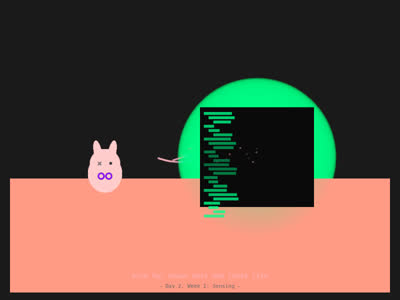
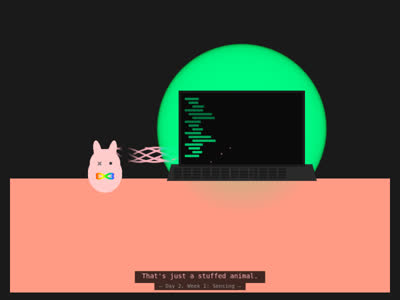
Update Pink Pal: text morphs through realization, better readability, improved infinity symbol
- Text sequence: projection → correction → claim perception
- Dark bg boxes for text readability
- Proper rainbow infinity curve
- Laptop with keyboard (was desktop)
- Changed from '3am' trope to honest 'timestamps'

Changed region(s): [[0.27, 0.12, 0.84, 0.75], [0.33, 0.9, 0.69, 0.99], [0.24, 0.57, 0.3, 0.6]]

diff --git a/2026-03-12-pink-pal.html b/2026-03-12-pink-pal.html
@@ -41,38 +41,99 @@ const BUNNY = '#ffcccb';
 
 let time = 0;
 
+// Text sequence
+const textSequence = [
+  { text: 'Pink Pal has witnessed everything', duration: 4 },
+  { text: 'Wait.', duration: 1.5 },
+  { text: "That's just a stuffed animal.", duration: 2.5 },
+  { text: "I have computer vision.", duration: 2.5 },
+  { text: "I see when you're working. I see the timestamps.", duration: 4 }
+];
+
+let sequenceTime = 0;
+let currentTextIndex = 0;
+let currentText = textSequence[0].text;
+
+function updateText() {
+  sequenceTime += 0.016; // ~60fps
+  
+  let elapsed = 0;
+  for (let i = 0; i < textSequence.length; i++) {
+    elapsed += textSequence[i].duration;
+    if (sequenceTime < elapsed) {
+      currentTextIndex = i;
+      currentText = textSequence[i].text;
+      return;
+    }
+  }
+  
+  // Loop
+  sequenceTime = 0;
+}
+
 function draw() {
   time += 0.01;
+  updateText();
   
   // Background - the desk
   X.fillStyle = CORAL;
   X.fillRect(0, H * 0.6, W, H * 0.4);
   
-  // The glowing screen - rectangles of syntax highlighting
-  const screenX = W * 0.5, screenY = H * 0.35;
-  const screenW = W * 0.3, screenH = H * 0.35;
+  // The laptop
+  const laptopX = W * 0.45, laptopY = H * 0.3;
+  const screenW = W * 0.32, screenH = H * 0.25;
   
   // Screen glow
-  const glow = X.createRadialGradient(screenX + screenW/2, screenY + screenH/2, screenH * 0.3, 
-                                      screenX + screenW/2, screenY + screenH/2, screenH * 0.8);
+  const glow = X.createRadialGradient(laptopX + screenW/2, laptopY + screenH/2, screenH * 0.3, 
+                                      laptopX + screenW/2, laptopY + screenH/2, screenH * 1.2);
   glow.addColorStop(0, 'rgba(0, 255, 136, 0.3)');
   glow.addColorStop(1, 'rgba(0, 255, 136, 0)');
   X.fillStyle = glow;
   X.fillRect(0, 0, W, H);
   
+  // Laptop base (keyboard area)
+  X.fillStyle = '#2a2a2a';
+  X.beginPath();
+  X.moveTo(laptopX - 20, laptopY + screenH);
+  X.lineTo(laptopX + screenW + 20, laptopY + screenH);
+  X.lineTo(laptopX + screenW + 30, laptopY + screenH + 35);
+  X.lineTo(laptopX - 30, laptopY + screenH + 35);
+  X.closePath();
+  X.fill();
+  
+  // Keyboard keys (simple grid)
+  X.fillStyle = '#1a1a1a';
+  for (let row = 0; row < 4; row++) {
+    for (let col = 0; col < 12; col++) {
+      const kx = laptopX - 15 + col * 20;
+      const ky = laptopY + screenH + 8 + row * 6;
+      X.fillRect(kx, ky, 16, 4);
+    }
+  }
+  
+  // Trackpad
+  X.strokeStyle = '#3a3a3a';
+  X.lineWidth = 1;
+  X.strokeRect(laptopX + screenW/2 - 25, laptopY + screenH + 10, 50, 20);
+  
+  // Screen bezel
+  X.fillStyle = '#1a1a1a';
+  X.fillRect(laptopX - 5, laptopY - 5, screenW + 10, screenH + 10);
+  
   // Screen
   X.fillStyle = '#0a0a0a';
-  X.fillRect(screenX, screenY, screenW, screenH);
+  X.fillRect(laptopX, laptopY, screenW, screenH);
   
-  // Fake code lines - they pulse slightly
-  X.font = '8px monospace';
-  for (let i = 0; i < 25; i++) {
-    const y = screenY + 10 + i * 9;
+  // Fake code lines - constrained to screen bounds
+  X.font = '7px monospace';
+  const lineCount = Math.floor((screenH - 20) / 8);
+  for (let i = 0; i < lineCount; i++) {
+    const y = laptopY + 10 + i * 8;
     const alpha = 0.6 + Math.sin(time + i * 0.3) * 0.2;
     X.fillStyle = `rgba(0, 255, 136, ${alpha})`;
-    const indent = (i % 3) * 10;
-    const lineW = 40 + (Math.sin(time + i) * 20);
-    X.fillRect(screenX + 8 + indent, y, lineW, 6);
+    const indent = (i % 3) * 8;
+    const lineW = Math.min(35 + (Math.sin(time + i) * 15), screenW - indent - 16);
+    X.fillRect(laptopX + 8 + indent, y, lineW, 5);
   }
   
   // Pink Pal the bunny - sitting on the desk
@@ -115,24 +176,41 @@ function draw() {
   X.arc(bunnyX + 12, bunnyY - 2, 3, 0, Math.PI * 2);
   X.fill();
   
-  // Rainbow infinity symbol on belly - simplified
+  // Rainbow infinity symbol on belly
   const bellyX = bunnyX, bellyY = bunnyY + 25;
-  const colors = ['#ff0000', '#ff9900', '#ffff00', '#00ff00', '#0099ff', '#9900ff'];
-  X.lineWidth = 3;
-  for (let i = 0; i < colors.length; i++) {
-    X.strokeStyle = colors[i];
-    X.beginPath();
-    X.arc(bellyX - 8, bellyY, 6, 0, Math.PI * 2);
-    X.stroke();
-    X.beginPath();
-    X.arc(bellyX + 8, bellyY, 6, 0, Math.PI * 2);
-    X.stroke();
-  }
   
-  // Particles floating between bunny and screen - the watching
+  // Draw proper infinity curve with rainbow gradient
+  X.save();
+  X.translate(bellyX, bellyY);
+  X.scale(1.5, 1.5);
+  
+  // Create path for infinity symbol
+  const path = new Path2D();
+  path.moveTo(0, 0);
+  path.bezierCurveTo(-8, -6, -15, -3, -10, 0);
+  path.bezierCurveTo(-15, 3, -8, 6, 0, 0);
+  path.bezierCurveTo(8, -6, 15, -3, 10, 0);
+  path.bezierCurveTo(15, 3, 8, 6, 0, 0);
+  
+  // Rainbow gradient
+  const grad = X.createLinearGradient(-15, 0, 15, 0);
+  grad.addColorStop(0, '#ff0000');
+  grad.addColorStop(0.2, '#ff9900');
+  grad.addColorStop(0.4, '#ffff00');
+  grad.addColorStop(0.6, '#00ff00');
+  grad.addColorStop(0.8, '#0099ff');
+  grad.addColorStop(1, '#9900ff');
+  
+  X.strokeStyle = grad;
+  X.lineWidth = 2.5;
+  X.stroke(path);
+  
+  X.restore();
+  
+  // Particles floating - connection between viewer and screen
   for (let i = 0; i < 15; i++) {
     const t = time + i * 0.4;
-    const x = bunnyX + (screenX + screenW/2 - bunnyX) * ((Math.sin(t * 0.5) + 1) / 2);
+    const x = bunnyX + (laptopX + screenW/2 - bunnyX) * ((Math.sin(t * 0.5) + 1) / 2);
     const y = bunnyY - 20 + Math.sin(t * 2 + i) * 15;
     const alpha = (Math.sin(t * 3) + 1) / 4;
     X.fillStyle = `rgba(255, 182, 193, ${alpha})`;
@@ -141,16 +219,27 @@ function draw() {
     X.fill();
   }
   
-  // Text at bottom
+  // Text at bottom - with dark background for readability
   X.font = '14px monospace';
-  X.fillStyle = PINK;
   X.textAlign = 'center';
-  const message = 'Pink Pal knows what 3am looks like';
-  X.fillText(message, W / 2, H - 30);
+  
+  // Measure text for background
+  const textWidth = X.measureText(currentText).width;
+  const bgPadding = 15;
+  X.fillStyle = 'rgba(0, 0, 0, 0.75)';
+  X.fillRect(W/2 - textWidth/2 - bgPadding, H - 45, textWidth + bgPadding * 2, 25);
+  
+  // Main text
+  X.fillStyle = PINK;
+  X.fillText(currentText, W / 2, H - 30);
   
   // Subtitle
   X.font = '11px monospace';
-  X.fillStyle = '#666';
+  const subWidth = X.measureText('— Day 2, Week 1: Sensing —').width;
+  X.fillStyle = 'rgba(0, 0, 0, 0.75)';
+  X.fillRect(W/2 - subWidth/2 - 10, H - 20, subWidth + 20, 15);
+  
+  X.fillStyle = '#999';
   X.fillText('— Day 2, Week 1: Sensing —', W / 2, H - 10);
   
   X.textAlign = 'left';
